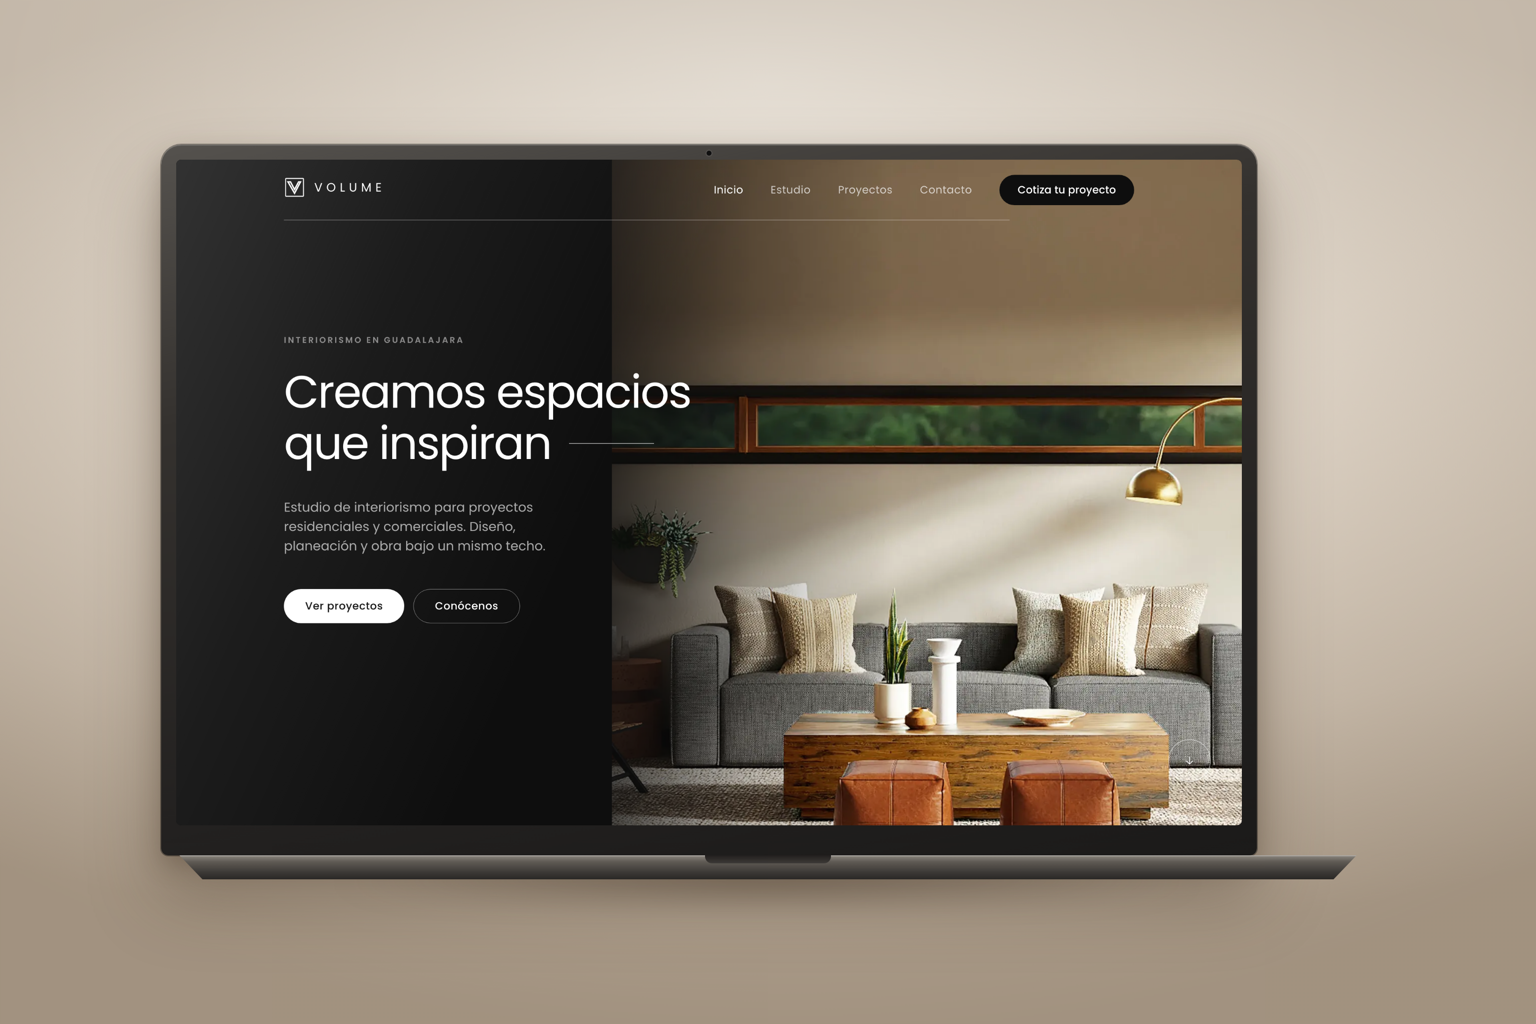
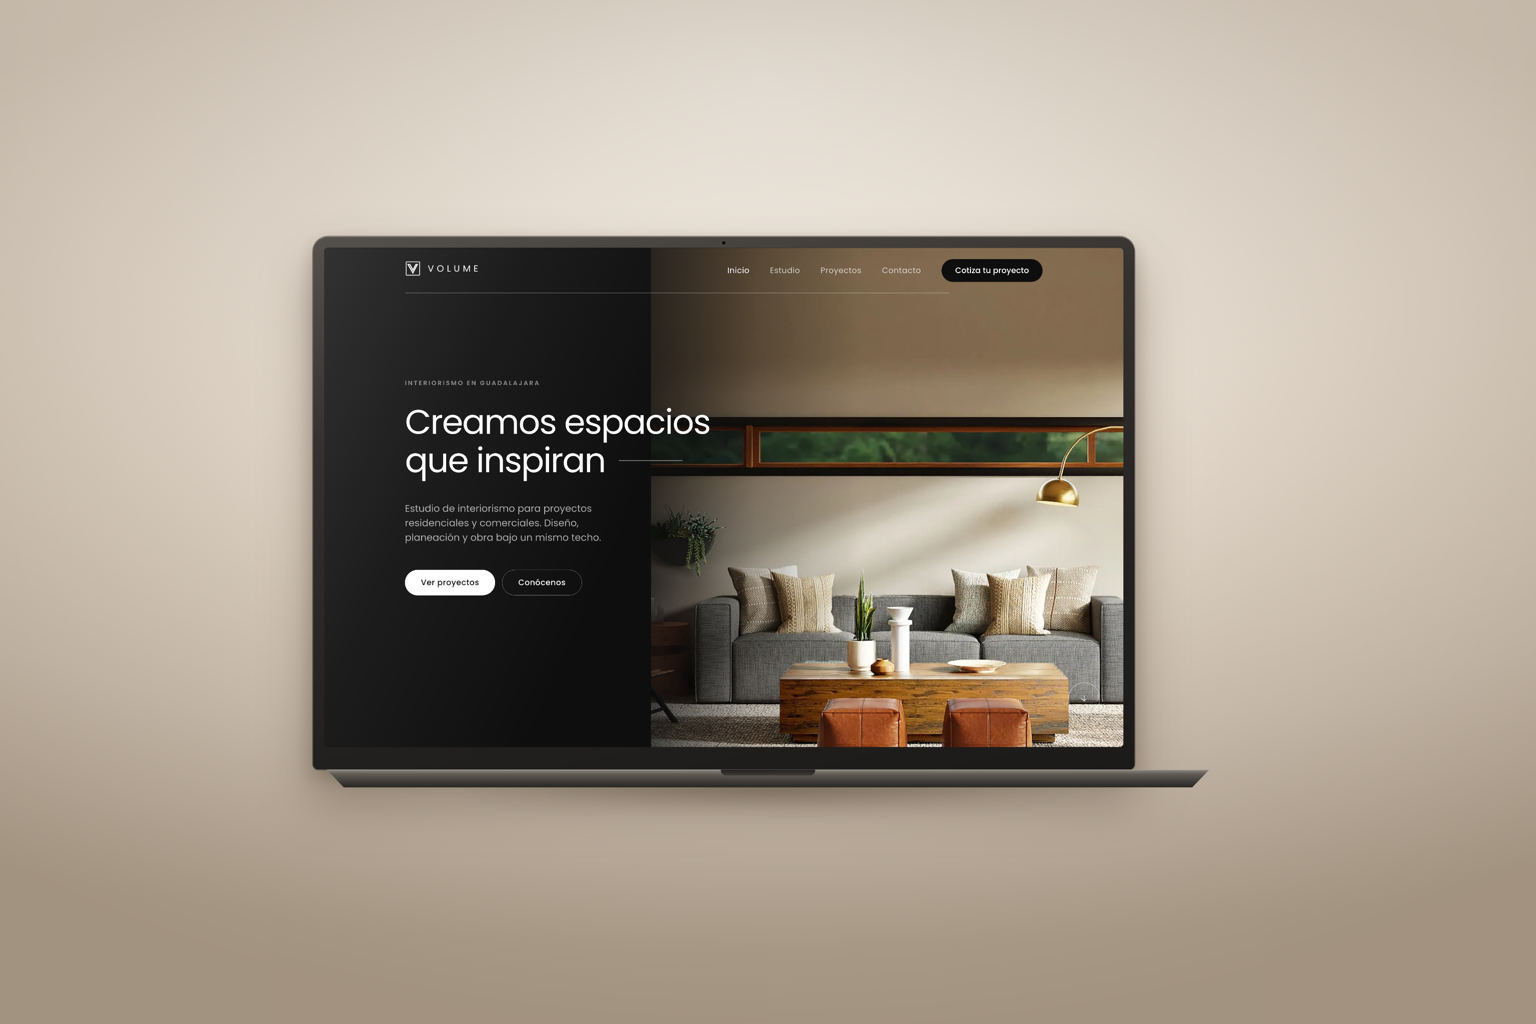
Reacomoda el portafolio a 4 columnas x 2 filas
Todas las celdas quedan a la misma altura. Los dos proyectos anchos van en
esquinas opuestas: Tertulia abre la fila A y VOLUME cierra la fila B.

La tarjeta ancha recorta ~40% del alto, asi que el mockup de VOLUME se
recompone mas chico para que la laptop quepa completa en la franja visible.

diff --git a/src/components/Portfolio.tsx b/src/components/Portfolio.tsx
@@ -4,17 +4,19 @@ import SectionHeading from "./SectionHeading";
 import FadeIn from "./FadeIn";
 
 /**
- * Patrón de grid tipo masonry (mismo espíritu que el grid del portafolio de Seppo).
- * El ciclo es de 6: cada bloque llena exactamente 4 filas de 4 columnas, así la
- * cuadrícula cierra sin huecos con el número de proyectos actual.
+ * Cuadrícula de 4 columnas × 2 filas, todas las celdas de la misma altura.
+ * Los dos proyectos anchos quedan en esquinas opuestas:
+ *
+ *   fila A:  [ 1 · 1 ][ 2 ][ 3 ]
+ *   fila B:  [ 4 ][ 5 ][ 6 · 6 ]
  */
 const SPAN_CLASSES = [
-  "sm:col-span-2 sm:row-span-2",
-  "sm:col-span-2 sm:row-span-1",
-  "sm:col-span-1 sm:row-span-1",
-  "sm:col-span-1 sm:row-span-1",
-  "sm:col-span-2 sm:row-span-2",
-  "sm:col-span-2 sm:row-span-2",
+  "sm:col-span-2",
+  "sm:col-span-1",
+  "sm:col-span-1",
+  "sm:col-span-1",
+  "sm:col-span-1",
+  "sm:col-span-2",
 ];
 
 export default function Portfolio() {
